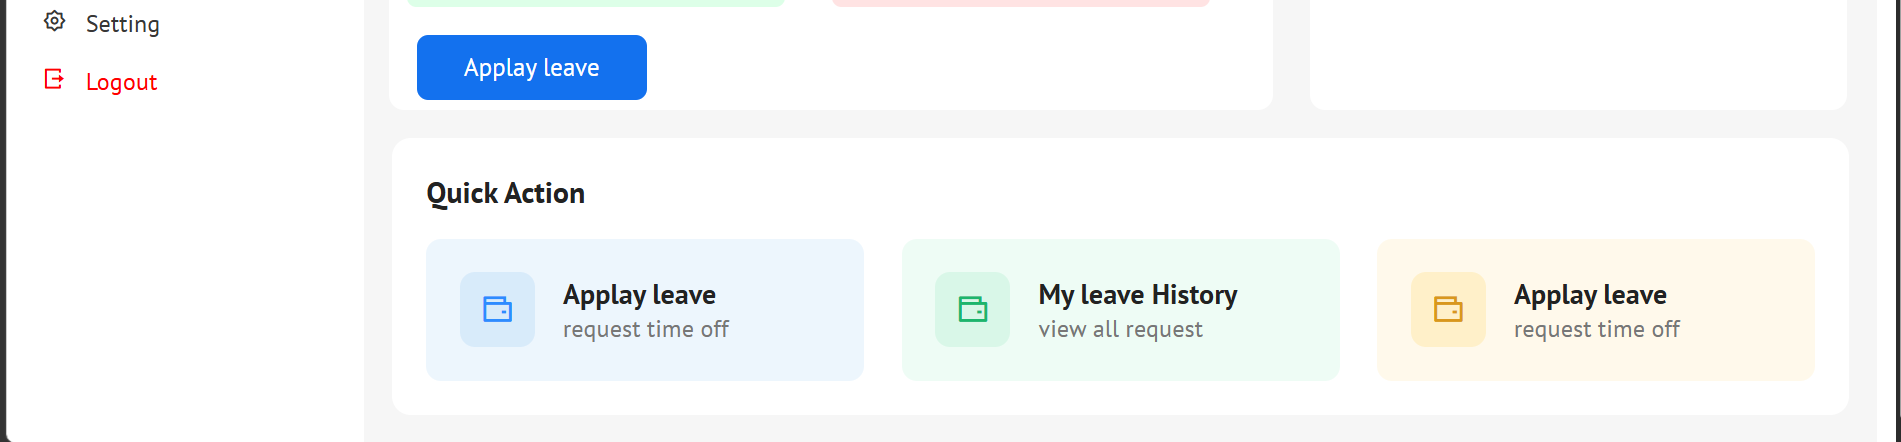
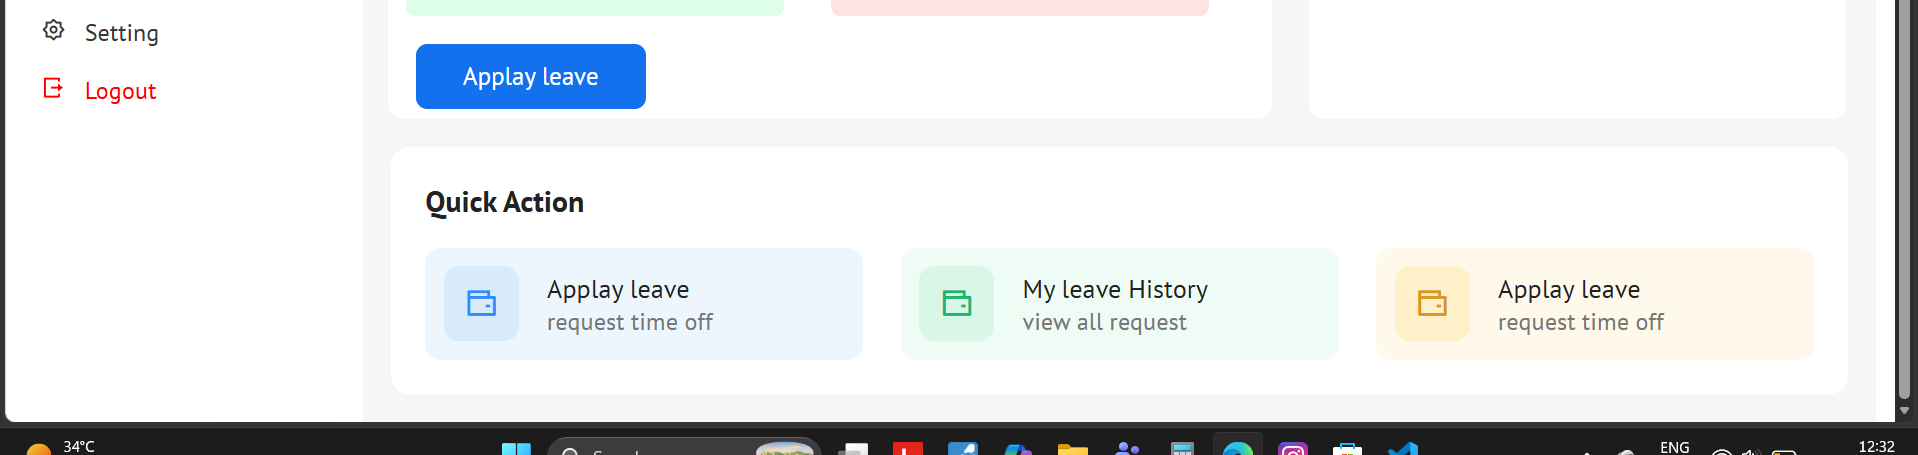
26/5/26

diff --git a/day-10.1/style.css b/day-10.1/style.css
@@ -9,7 +9,9 @@ body{
     width:100%;
     height:100vh;
 }
-
+.gray-color{
+    color: rgb(175, 170, 170);
+}
 .leave-grid > div:nth-child(1){
     background-color:#dff4ff;
     border-radius: 5px;
@@ -86,8 +88,9 @@ body{
 }
 .side-menu-box,
 .side-bottam-menu-box{
-    width:100%;
-    font-size: 12px;
+    width:78%;
+    font-size: 50px;
+    line-height: 30px;
 }
 .side-menu-box div,
 .side-bottam-menu-box div{
@@ -156,7 +159,7 @@ nav{
     border-radius: 4px;
 }
 .nav-search-bar input{
-    width:250px;
+    width:400px;
     height:25px;
     margin:10px 5px;
     border:none;
@@ -167,15 +170,16 @@ nav{
 }
 .welcome-box{
     margin: 18px 15px;
+    font-size: 18px;
 }
 .timing-box{
     display:flex;
     width:98%;
-    height:70%;
+    height:50vh;
     justify-content:space-around;
 }
 .leave-summary{
-    width: 85%;
+    width: 95%;
     background-color: #FFFFFF;
     margin-right: 20px;
     border-radius:8px;
@@ -184,23 +188,66 @@ nav{
 .leave-grid{
     
     display:grid;
-    gap: 25px;
+    gap: 40px;
     grid-template-columns: repeat(2,1fr);
     width:95%;
-    padding: 15px 15px;
+    padding: 20px 25px;
     overflow: hidden;
     padding: 10px;
     
 }
 .leave-summary-text{
+    display: flex;
+    flex-direction: column;
+    justify-content: center;
+    align-items: start;
+    font-size:15px;
+    gap: 3px;
+}
+.leave-summary-text p{
+    width: 100%;
+    text-align: start;
+}
+.anual-leave-icon{
+    display: flex;
+    width: 100%;
+    gap: 6px;
+}
+.anual-leave-icon i{
+    width:40px;
+    height:40px;
     display:flex;
-    flex-direction:column;
-    font-size:12px;
-    
+    justify-content:center;
+    align-items:center;
+    border-radius:10px;
+    font-size:18px;
+}
+.leave-grid > div:nth-child(1) i{
+background:#D8EBFA;
+color:#70a9ee;
+}
+
+.leave-grid > div:nth-child(2) i{
+background:#FFF0C9;
+color:#dab36b;
+}
+
+.leave-grid > div:nth-child(3) i{
+background:#D9F7E8;
+color:#61dfa2;
+}
+
+.leave-grid > div:nth-child(4) i{
+background:#FFDCDC;
+color:#e58289;
+}
+.leave-grid > div > .ri-more-2-line{
+    background:none !important;
+    color:black !important;
+    padding:0 !important;
 }
 
 .leave-grid > div{
-    background-color: #ff0000;
     display: flex;
     justify-content: space-between;
     align-items: center;
@@ -212,18 +259,22 @@ nav{
     align-items: center;
 }
 .today-status{
-    width:50%;
+    width:40%;
     flex-direction: column;
     background-color: #FFFFFF;
      padding: 11px 15px;
+     font-size:35px;
      border-radius: 8px;
 }
+.font{
+    font-size:18px;
+}
 .leave-summary-name{
-    font-size: 16px;
+    font-size: 19px;
     margin-left:20px;;
 }
 .today-status-name{
-    font-size: 16px;
+    font-size: 19px;
     font-weight: bold;
     margin-left: 5px;
 }
@@ -234,19 +285,37 @@ nav{
     margin-top:15px;
     font-size: 13px;
 }
-.today-status > div > i:nth-child(1) {
+/* .today-status > div > i:nth-child(1) {
     background-color:rgb(174, 234, 174);
     padding: 5px;
+} */
+ .today-status > div:nth-child(2) i{
+background:#DCFCE7;
+color:#22C55E;
+padding: 10px;
+}
+
+.today-status > div:nth-child(3) i{
+background:#DBEAFE;
+color:#3B82F6;
+padding: 10px;
+}
+
+.today-status > div:nth-child(4) i{
+background:#FEF3C7;
+color:#F59E0B;
+padding: 10px;
 }
 button{
     background-color: #1371ee;
     border:none;
     color: white;
     border-radius: 6px;
-    height:35px;
+    height:45px;
     margin-top:20px;
-    width: 26%;
-     margin:5px 15px;
+    font-size: 20px;
+    width: 20%;
+     margin:25px 15px;
      transition: 2s;
 }
 button:hover{
@@ -293,7 +362,7 @@ color: #ff0000;
 }
 
 .quick-action h2{
-    font-size:16px;
+    font-size:19px;
     margin-bottom:15px;
     color:#222;
 }
@@ -301,14 +370,16 @@ color: #ff0000;
 .quick-action-boxes{
     display:flex;
     gap:20px;
+    font-size: 22px;
 }
 
 .box-5{
     flex:1;
     display:flex;
     align-items:center;
-    gap:15px;
-    padding:18px;
+    gap:25px;
+    font-size: 22px;
+    padding:10px;
     border-radius:8px;
 }
 
@@ -323,8 +394,8 @@ color: #ff0000;
 }
 
 .box-5 div p:first-child{
-    font-size:15px;
-    font-weight:600;
+    font-size:14px;
+    font-weight:500;
     color:#222;
 }
 
@@ -359,3 +430,5 @@ background:#fff9eb;
 background:#fff0c9;
 color:#d9971d;
 }
+/* leave summar icon start */
+

diff --git a/day-10.1/index.html b/day-10.1/index.html
@@ -15,12 +15,12 @@
       <section class="left-section d-flex flex-col items-center bg-white">
         <div class="logo-name d-flex items-center justify-center">
           <i class="ri-remix-line"></i>
-          <h2>HRM portal</h2>
+          <h2>HRM Portal</h2>
         </div>
         <div class="side-menu-box">
           <div class="d-flex">
             <i class="ri-dashboard-line"></i>
-            <span>dashboard</span>
+            <span>Dashboard</span>
           </div>
           <div>
             <i class="ri-time-line"></i>
@@ -68,7 +68,7 @@
             />
             <div class="nav-bar-profile-image">
               <span>Zubear Rahman</span>
-              <span>UI/UX Designer</span>
+              <span class="gray-color">UI/UX Designer</span>
             </div>
             <i class="ri-arrow-drop-down-line"></i>
           </div>
@@ -79,65 +79,65 @@
         </div>
         <div class="timing-box">
           <div class="leave-summary">
-            <h2 class="leave-summary-name">leave summary</h2>
+            <h2 class="leave-summary-name">Leave Summary</h2>
             <div class="leave-grid">
-              <div class="box-1">
-                <div>
-                  <i class="ri-fullscreen-exit-line"></i>
+             <div class="box-2">
+                <div class="anual-leave-icon">
+                  <i class="ri-folder-3-fill"></i>
                   <div class="leave-summary-text">
-                    <span>Annual Leave</span>
-                    <span>12/18</span>
-                    <span>days remining</span>
+                    <p>sick Leave</p>
+                    <p>6/10</p>
+                    <p>days remining</p>
                   </div>
                 </div>
                 <i class="ri-more-2-line"></i>
               </div>
               <div class="box-2">
-                <div>
-                  <i class="ri-fullscreen-exit-line"></i>
+                <div class="anual-leave-icon">
+                  <i class="ri-folder-3-fill"></i>
                   <div class="leave-summary-text">
-                    <span>sick Leave</span>
-                    <span>6/10</span>
-                    <span>days remining</span>
+                    <p>Sick Leave</p>
+                    <p>6/10</p>
+                    <p>Days Remining</p>
                   </div>
                 </div>
                 <i class="ri-more-2-line"></i>
               </div>
-              <div class="box-3">
-                <div>
-                  <i class="ri-fullscreen-exit-line"></i>
+              <div class="box-2">
+                <div class="anual-leave-icon">
+                  <i class="ri-folder-3-fill"></i>
                   <div class="leave-summary-text">
-                    <span>causal Leave</span>
-                    <span>2/5</span>
-                    <span>days remining</span>
+                    <p>Sick Leave</p>
+                    <p>6/10</p>
+                    <p>Days Remining</p>
                   </div>
                 </div>
                 <i class="ri-more-2-line"></i>
               </div>
-              <div class="box-4">
-                <div>
-                  <i class="ri-fullscreen-exit-line"></i>
+              <div class="box-2">
+                <div class="anual-leave-icon">
+                  <i class="ri-folder-3-fill"></i>
                   <div class="leave-summary-text">
-                    <span>Unpaid Leave</span>
-                    <span>Available</span>
-                    <span>When Needed</span>
+                    <p>Sick Leave</p>
+                    <p>6/10</p>
+                    <p>Days Remining</p>
                   </div>
                 </div>
                 <i class="ri-more-2-line"></i>
               </div>
             </div>
-            <button>Applay leave</button>
+            <button>Applay Leave</button>
           </div>
           <div class="today-status">
-            <h2 class="today-status-name">Today status</h2>
+            <h2 class="today-status-name">Today Status</h2>
             <div class="">
               <i class="ri-time-line"></i>
               <div>
                 <p>Status</p>
-                <p>Working from office</p>
+                <p>Working From Office</p>
               </div>
             </div>
-            <div class="">
+            <div class="font">
               <i class="ri-time-line"></i>
               <div>
                 <p>Working House</p>
@@ -160,22 +160,22 @@
             <div class="box-5 blue">
               <i class="ri-wallet-line"></i>
               <div>
-                <p>Applay leave</p>
-                <p>request time off</p>
+                <p>Applay Leave</p>
+                <p>Request Time off</p>
               </div>
             </div>
             <div class="box-5 green">
               <i class="ri-wallet-line"></i>
               <div>
-                <p>My leave History</p>
+                <p>My Leave History</p>
                 <p>view all request</p>
               </div>
             </div>
             <div class="box-5 yellow">
               <i class="ri-wallet-line"></i>
               <div>
-                <p>Applay leave</p>
-                <p>request time off</p>
+                <p>Applay Leave</p>
+                <p>Request Time off</p>
               </div>
             </div>
           </div>